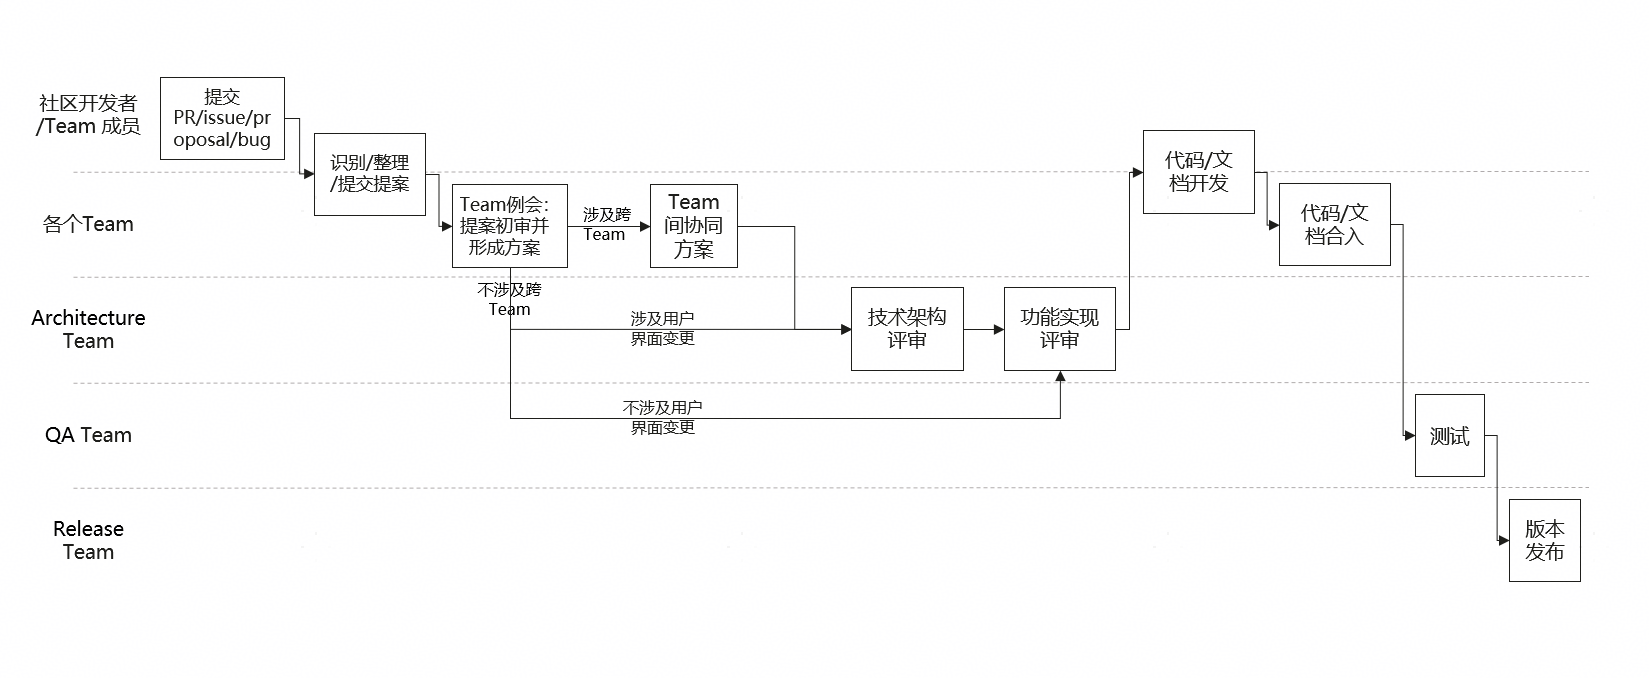
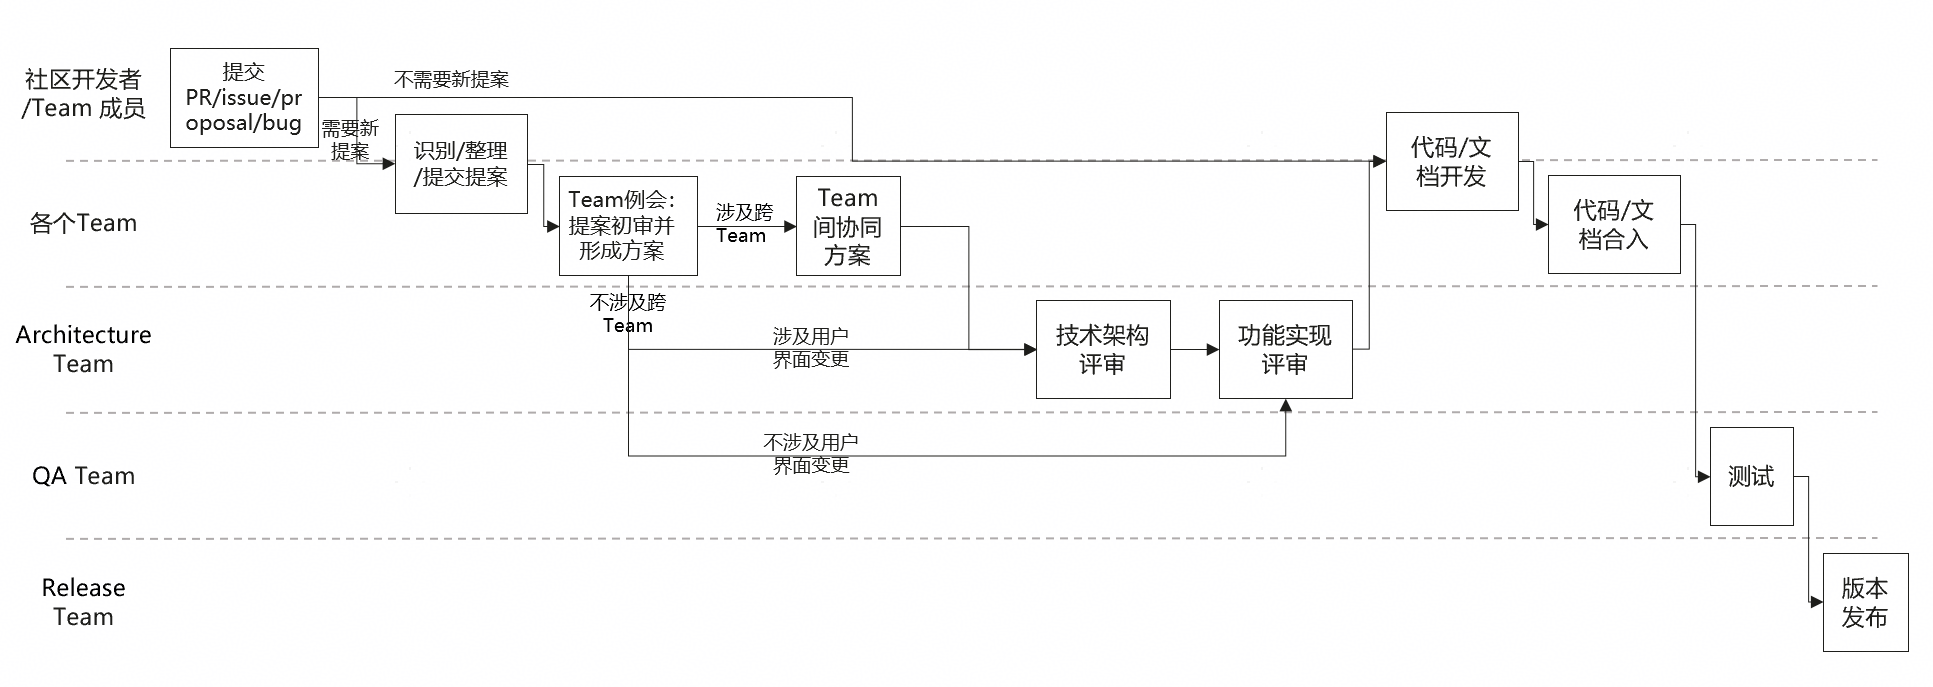
update: proposal management description

diff --git a/cangjie_pmc/proposal_management.md b/cangjie_pmc/proposal_management.md
@@ -4,21 +4,31 @@
 
 ## 1. 范围
 
-社区提案及语言演进范围涵盖仓颉语言、标准库及工具链相关设计和更改，包括对以下内容的添加、删除与修改：
+社区提案及语言演进范围涵盖仓颉语言、语言库及工具链相关设计和更改，包括对以下内容的添加、删除与修改：
 
 - 仓颉编程语言设计（当前）
-- 标准库API设计（后续）
+- 语言库 API 设计（后续）
 - 编译器及工具链实现等（后续）
 
-错误修复、优化或诊断改进等更改可以通过参与贡献过程进行贡献;请参阅[如何贡献](https://gitcode.com/Cangjie/CangjieCommunity/blob/main/contribute/contribution.md)。仓颉社区提案是否被接收取决于相关Team及PMC判断。
+错误修复、优化或诊断改进等更改可以通过参与贡献过程进行贡献;请参阅[如何贡献](https://gitcode.com/Cangjie/CangjieCommunity/blob/main/contribute/contribution.md)。仓颉社区提案是否被接收取决于相关 Team 及 PMC 判断。
 
 ## 2. 流程
 
 ![img](./pictures/proposal_process.png)
 
 ### 2.1 起始环节
-社区开发者或Team成员提交PR/issue/proposal/bug，即合并请求、议题、提案或问题。
+社区开发者或 Team 成员提交 PR/issue/proposal/bug ，即合并请求、议题、提案或问题。
 这是整个流程的起点，标志着新功能的提出或问题的发现。
+
+在此环节，根据具体内容进行第一次分流：
+
+- **分流一：不需要新提案**
+  - 直接跳过提案环节
+  - 进入「代码/文档开发」阶段
+- **分流二：需要新提案**
+  - 进入「识别/整理/提交提案」环节
+  - 对提交内容进行规范化处理
+
 ### 2.2 提案整理环节
 进入「识别/整理/提交提案」阶段，对提交的内容进行初步整理和分类。
 该阶段的目的是确保提案清晰、完整，便于后续的评审和处理。
@@ -27,15 +37,15 @@
 
 #### 2.2.1 社区讨论
 
-社区成员及相关Team团队成员在ISSUE中进行讨论。
+社区成员及相关 Team 团队成员在 ISSUE 中进行讨论。
 
 #### 2.2.2 初步评估
 
-语言设计 Team 根据社区讨论结果对ISSUE状态进行标注：包括“Active”、“Likely Accept”、“Needs Decision”和“Likely Decline”。
+语言设计 Team 根据社区讨论结果对 ISSUE 状态进行标注：包括“Active”、“Likely Accept”、“Needs Decision”和“Likely Decline”。
 
-- Active：提案正在ISSUE讨论中，将在指定日期范围内开展审核。
+- Active：提案正在 ISSUE 讨论中，将在指定日期范围内开展审核。
 - Likely Accept：该提案有很高的概率被接收，具有该标签将被优先审查。
-- Needs Decision：提案正在ISSUE讨论中，需要更多场景/信息/讨论。
+- Needs Decision：提案正在 ISSUE 讨论中，需要更多场景/信息/讨论。
 - Likely Decline：该提案有很高的概率被拒绝，具有该标签将被优先审查。
 
 #### 2.2.3 **提案撰写**
@@ -47,42 +57,31 @@
 由语言设计 Team 对接收到的初稿组织离线评审。团队成员根据初稿反馈离线评审意见，最终得到提案修正稿。获得修正稿后可提交提案评审会申报议题。
 
 ### 2.3 提案初审环节
-- 进入各个Team的「Team例会：提案初审并形成方案」环节。
+- 进入各个Team的[「Team例会：提案初审并形成方案」](../team)环节。
 - 在此处会根据提案的性质分成两个分支：
   - **分支一：涉及跨Team**：若提案涉及多个团队的协作，则先输出「Team间协同方案」，明确各团队的职责和协作方式，再进入后续评审环节。
   - **分支二：不涉及跨Team**：若提案仅涉及单个团队，则直接进入后续评审环节。
 ### 2.4 评审环节
 - 根据提案是否涉及用户界面变更，进入不同的评审路径：
-  - **路径一：涉及用户界面变更**：先经过「技术架构评审」，确保技术方案的可行性和稳定性，再进入「功能实现评审」，对功能的具体实现进行评估。
-  - **路径二：不涉及用户界面变更**：直接进入「功能实现评审」，对功能的实现进行详细审查。
+  - **路径一：涉及用户界面变更**：先经过[「技术架构评审」](../team/team_architecture/meetings-arch)，确保技术方案的可行性和稳定性，再进入「功能实现评审」，对功能的具体实现进行评估。
+  - **路径二：不涉及用户界面变更**：直接进入[「功能实现评审」](../team/team_architecture/meetings-impl)，对功能的实现进行详细审查。
 
-- 由评审会组织人形成纪要，记录要点、讨论结果和决策事项，并发布到邮件列表，定期归档至开源代码仓。
+- 由评审会组织人形成纪要，记录要点、讨论结果和决策事项，定期归档。
 
 ### 2.5 开发与合入环节
 - 评审通过后，进入「代码/文档开发」环节，开发人员根据评审意见进行代码编写和文档完善。
 - 开发完成后，进行「代码/文档合入」，将开发好的代码和文档合并到项目主分支中。
 ### 2.6 测试与发布环节
-- 代码文档合入后，进入「测试」环节，由QA Team对功能进行全面测试，确保功能的正确性和稳定性。
-- 测试完成后，最终进行「版本发布」，由Release Team将新版本正式发布，完成整个流程。
+- 代码文档合入后，进入「测试」环节，由 QA Team 对功能进行全面测试，确保功能的正确性和稳定性。
+- 测试完成后，最终进行「版本发布」，由 Release Team 将新版本正式发布，完成整个流程。
 
-### 3. 评审会议：
-
-#### 3.1 频率：每月初（以邮件订阅通知为准）。
-
-#### 3.2 会议内容：优先审查 “Active”、“Likely Accept”和 “Likely Decline” 的提案。
-
-#### 3.3 参与人员：仓颉语言设计核心团队、相关开发团队成员。
-
-#### 3.4 会议纪要：公开发布至开源代码仓。
-
-### 4. 决策机制
+### 3. 决策机制
 
 讨论为主，当讨论无法得出结论时进行投票。
 
-#### 4.1 **投票方式**：采用投票方式决策，需语言设计Team 2/3 以上成员同意方可通过。
+#### 3.1 **投票方式**：采用投票方式决策，需 语言设计 Team 2/3 以上成员同意方可通过。
 
-#### 4.2 **投票权**：每个成员拥有一票投票权。
+#### 3.2 **投票权**：每个成员拥有一票投票权。
 
-#### 4.3 **否决权**：语言设计Team Leader具备否决权，但在使用否决权时需向全体成员说明理由。
-
+#### 3.3 **否决权**：语言设计 Team Leader 具备否决权，但在使用否决权时需向全体成员说明理由。
 
